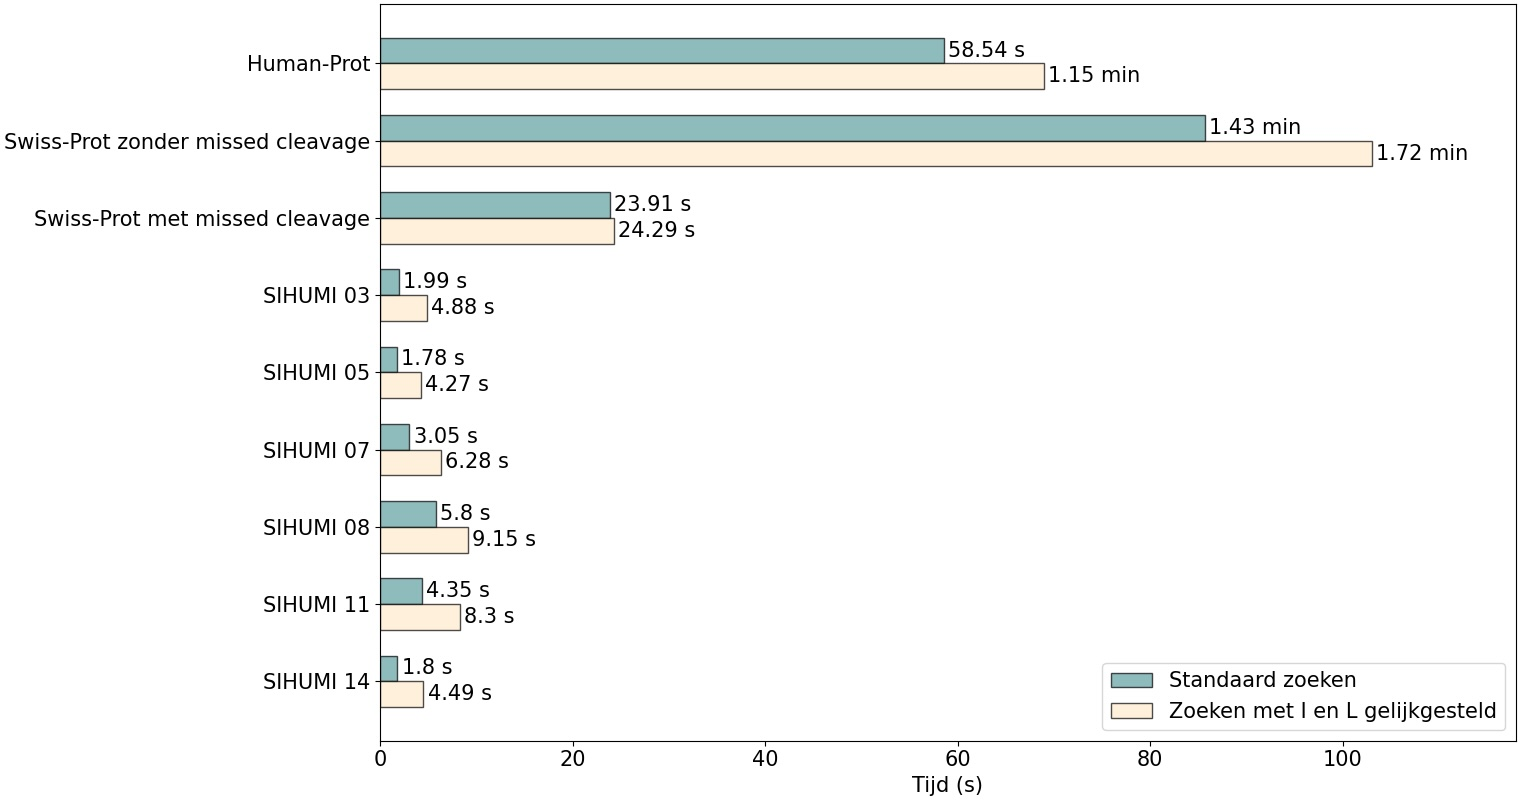
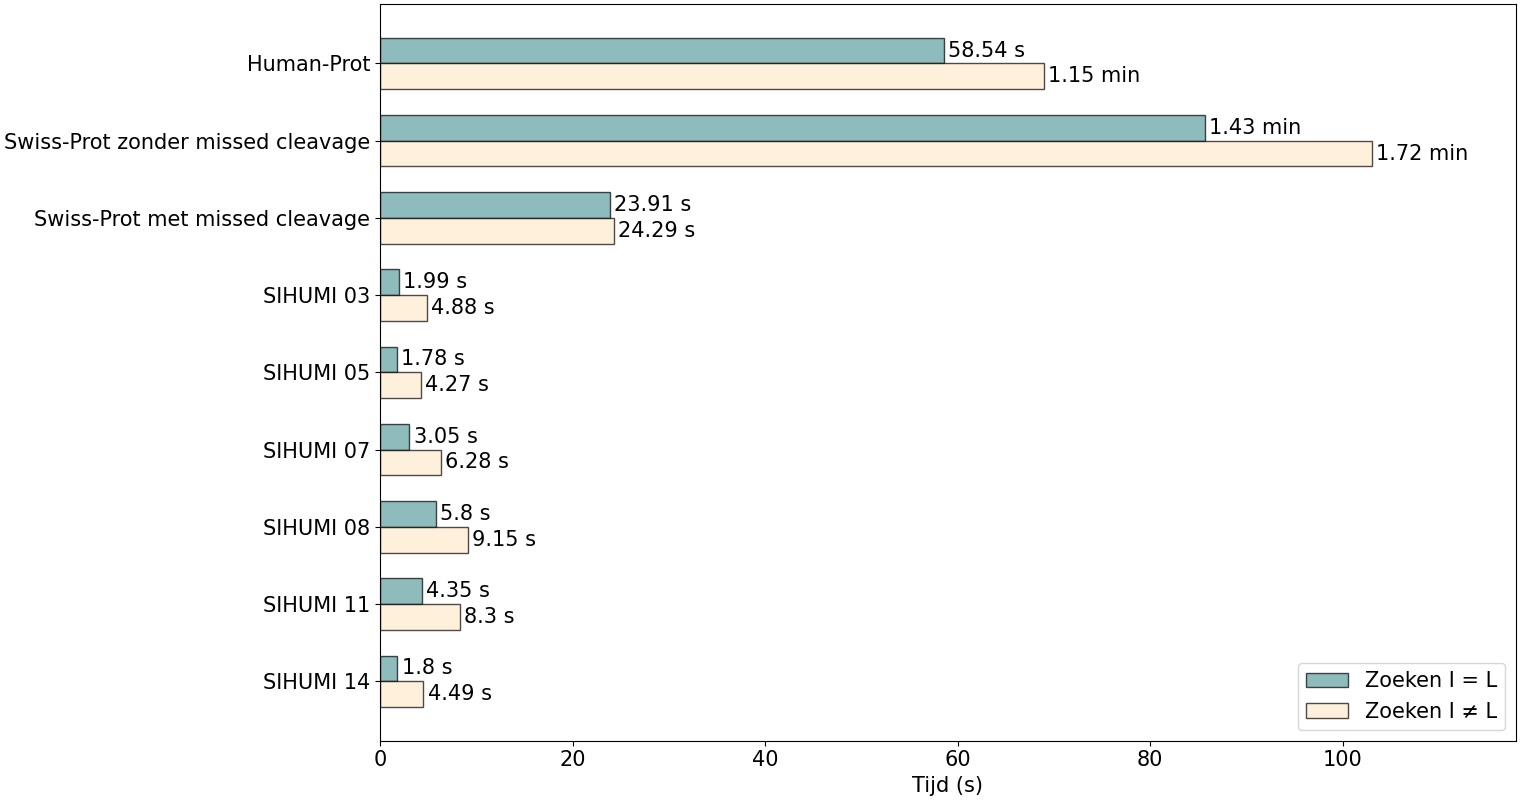
voeg meer info toe in het uniprot hoofdstuk

Changed region(s): [[0.7112, 0.8125, 0.9895, 0.9062]]

diff --git a/src/uniprot.tex b/src/uniprot.tex
@@ -104,64 +104,206 @@ In deze figuur zien we bovendien dat de zoeksnelheid waarbij I niet gelijk wordt
 \begin{figure}[ht]
     \centering
     \includegraphics[width=0.95\linewidth]{uniprot_searchtime_standard_vs_il_equality}
-    \caption{Zoektijd in UniProtKB (Swiss-Prot + TrEMBL) met en zonder het gelijkstellen van I en L met een SA met sparseness factor $k = 3$.}
+    \caption{Zoektijd in UniProtKB (Swiss-Prot + TrEMBL) met en zonder het gelijkstellen van I en L met een SA met sparseness factor $k = 3$. De index zelf is opgebouwd op basis van een tekst waar I $\neq$ L.}
     \label{fig:uniprot_search}
 \end{figure}
 
 \subsection{Index waarbij I = L}
-% TODO
+Naast het opbouwen van de normale index, en daarin het zoekproces te proberen aanpassen om gevallen te vinden waarbij I en L omgewisseld worden, kunnen we ook het omgekeerde proberen doen.
+Hierbij wordt in de originele tekst elke L vervangen door een I, of omgekeerd, om op deze aangepaste tekst een index te bouwen.
+Wanneer we in de gezochte peptides hetzelfde doen, vinden we alle matches, waarbij een I en L gelijkgesteld zijn.
+Dit is duidelijk erg simpel, en bovendien efficiënt.
+Door het zoekproces licht aan te passen, kunnen we bovendien zoeken door de suffix array die opgebouwd is via de aangepaste tekst, maar wel de originele tekst gebruiken.
+We moeten er enkel voor zorgen dat we overal waar een L staat, de gelijkenis uitvoeren alsof het een I was.
+\\ \\
+In het geheugen van het programma zitten nu volgende onderdelen:
+\begin{itemize}
+    \item De originele tekst.
+    \item Een SA opgebouwd op de aangepaste tekst, waarbij I = L\@.
+    \item Een peptide die we willen zoeken.
+\end{itemize}
+Wanneer we alle matches willen vinden waarbij I $\neq$ L, kunnen we volgend stappenplan gebruiken.
+\begin{enumerate}
+    \item Zoek alle matches in de SA, waarbij I = L\@.
+    Hiervoor moeten we in de peptide alle L'en vervangen door een I\@.
+    \item Filter de ongeldige matches weg.
+    Dit kunnen we doen door voor alle matches te controleren op elke positie waar een I of L is, als daar hetzelfde teken staat als in de tekst.
+    Wanneer in de peptide een L staat, en de tekst een I (of omgekeerd), wil dit zeggen dat deze match ongeldig is, want ze is enkel gevonden vanwege het gelijkstellen van I aan L tijdens het zoeken.
+    Andere tekens in de peptide moeten nooit gecontroleerd worden, aangezien het zoeken in de SA ons al garandeert dat deze overeenkomen.
+\end{enumerate}
+
+Dit stappenplan is niet alleen simpel, maar het bevat ook geen extreem slechte gevallen zoals bij de index waarbij we I $\neq$ L stellen, en dan alle opties proberen verkennen.
+Naast deze voordelen blijkt ook dat deze manier van zoeken iets sneller is in het algemeen.
+Dit valt te zien in Figuur~\ref{fig:uniprot_search_il_equal}.
+Een laatste voordeel is dat het gelijkstellen van I en L de standaard optie is in de huidige Unipept UI\@.
+Dit is net ook wat hier het minste werk vereist tijdens het zoeken.
+
+\begin{figure}[ht]
+    \centering
+    \includegraphics[width=0.95\linewidth]{uniprot_searchtime_standard_vs_il_equality_il_equal_index}
+    \caption{Zoektijd in UniProtKB (Swiss-Prot + TrEMBL) met en zonder het gelijkstellen van I en L met een SA met sparseness factor $k = 3$. De index zelf is opgebouwd op basis van een tekst waar I = L.}
+    \label{fig:uniprot_search_il_equal}
+\end{figure}
+
+Eén iets merkwaardig is dat voor onze kleinere SIHUMI testbestanden het zoeken met I $\neq$ L sneller is, ook al is dit net minder werk.
+Dit komt omdat zonder dit filteren er meer resultaten zijn.
+Deze extra resultaten moeten allemaal meegenomen worden in het berekenen van de LCA*, maar ook tijdens het serializeren van de resultaten naar een JSON bestand.
+Bij de grotere testbestanden levert het filteren in verhouding meer winst op, waardoor daar wel de verwachte tijdswinst zichtbaar is.
 
 \section{Vergelijking met andere tools}\label{subsec:vergelijking-met-andere-tools}
-Aangezien we er in geslaagd zijn om UniProtKB volledig te indexeren is het nuttig om de performantie te vergelijken met bestaande tools.
+Aangezien we erin geslaagd zijn om UniProtKB volledig te indexeren, is het nuttig om de performantie te vergelijken met bestaande tools.
 De tools die we bekijken zijn de \textbf{Uniprot Peptide search tool}, de \textbf{Expasy ScanProsite tool} en \textbf{Unipept} (met de bestaande indexstructuur).
-Vanwege de performantie zullen we ons beperken tot het opzoeken van één willekeurige peptide \texttt{ISPAVLFVIVILAVLFFISGLLHLLVR}.
-Als referentie gebruiken we de zoektijd in de nieuwe indexstructuur gebruikmakende van een suffix array met sparseness factor 3.
-Hierin duurt het zoeken van de peptide \textbf{0.01 seconden} en levert 50 matches op.
-Wanneer we I en L gelijkstellen duurt dit opnieuw 0.01 seconden, maar levert dit wel 52 matches op.
+Vanwege de beperkte performantie zullen we ons beperken tot het opzoeken van één willekeurige peptide \texttt{ISPAVLFVIVILAVLFFISGLLHLLVR}.
+Als referentie gebruiken we de zoektijd in de nieuwe indexstructuur gebruikmakende van een suffix array met sparseness factor $k = 3$.
+Hierin duurt het zoeken van de peptide \textbf{$\pm$ 3 milliseconden} en levert 50 matches op.
+Wanneer we I en L gelijkstellen duurt dit opnieuw ongeveer 3 milliseconden, maar levert dit wel 52 matches op.
 Hierbij wordt natuurlijk geen extra tijd geïntroduceerd door een API call over het internet aangezien deze index (nog) niet publiek beschikbaar is.
 
 \subsection{UniProt peptide search tool}
-De UniProt peptide search tool\cite{uniprot_search_paper, uniprot_search_site} is een onderdeel van de UniProt site en laat toe om alle voorkomens van een bepaald eiwit te vinden in de volledige UniProtKB database.
-Als opties kunnen we kiezen om enkel in Swiss-Prot te zoeken, of in Swiss-Prot en TrEMBL.
-Voor beide datasets kunnen we kiezen of we I en L aan elkaar willen gelijkstellen.
+De UniProt peptide search tool~\cite{uniprot_search_paper, uniprot_search_site} is een onderdeel van de UniProt site en laat toe om alle voorkomens van een bepaald eiwit te vinden in de volledige UniProtKB databank.
+Als opties kunnen we kiezen om enkel in Swiss-Prot te zoeken, of in Swiss-Prot en TrEMB L\@.
+Voor beide databanken kunnen we kiezen of we I en L aan elkaar willen gelijkstellen.
 Deze features komen exact overeen met de eigenschappen van onze nieuwe indexstructuur.
 Qua performantie is deze tool echter extreem onstabiel.
-Zo duurt het zoeken van \texttt{ISPAVLFVIVILAVLFFISGLLHLLVR} in de volledige UniProtKB database \textbf{enkele seconden tot zelfs 20 minuten}.
+Zo duurt het zoeken van \texttt{ISPAVLFVIVILAVLFFISGLLHLLVR} in de volledige UniProtKB databank \textbf{enkele seconden tot zelfs 20 minuten}.
 Bovendien vermoeden we ook dat er een vorm van caching toegepast wordt aangezien het zoeken voor een tweede keer zo goed als onmiddellijk het resultaat geeft.
 Dit maakt het benchmarken extreem moeilijk.
 Zoals verwacht zijn de gevonden matches identiek aan de matches die onze nieuwe indexstructuur vindt.
-Naast de variabele performantie faalt deze tool ook regelmatig tijdens het berekenen en ophalen van de resultaten.
+Naast de variabele performantie faalt deze tool ook regelmatig tijdens het zoeken en ophalen van de resultaten.
 
 \subsection{Expasy ScanProsite tool}
-De Expasy ScanProsite tool\cite{scanprosite} laat toe om aan de hand van een taaltje die lijkt op reguliere expressies allerlei patronen te zoeken.
-Hun eigen taal laat toe om onder andere wildcards, karakterklasses, inverse klasses en herhalingen te specificeren.
+De Expasy ScanProsite tool~\cite{scanprosite} laat toe om aan de hand van motieven die lijken op reguliere expressies allerlei patronen te zoeken.
+De beschrijving van motieven laat toe om onder andere wildcards, karakterklassen, inverse klassen en herhalingen te specificeren.
 De flexibiliteit van dit systeem is dus een sterk voordeel.
 Een nadeel van deze tool is dat niet de volledige UniProtKB databank doorzocht wordt.
 Er wordt enkel rekening gehouden met proteïnes die deel uit maken van een reference proteome\footnote{Deze zogenaamde reference proteomes zijn een collectie van eiwitten die door een bepaald organisme gemaakt kunnen worden, en die bovendien taxonomisch belangrijk bevonden worden. Deze laatste voorwaarde wil dus zeggen dat dit niet zomaar van elk organisme is, enkel van een selecte groep organismes die op basis van verschillende factoren belangrijk bevonden wordt. Een voorbeeld hiervan is de \textit{human reference proteome}. Dit zijn alle eiwitten die door een mens aangemaakt kunnen worden.}.
 Dit komt er op neer dat ze bij UniProt 2024\_01 \textbf{slechts rekening houden met 85\thinspace152\thinspace388 van de 249\thinspace751\thinspace891 proteïnes}.
-Wanneer we de zoekperformantie hier testen duurt het zoeken van de ene peptide zo'n \textbf{5.5 minuten} zonder gelijkstellen van I en L en 15 minuten met het gelijkstellen van I en L\@.
-Hierbij zijn er slechts 30 resp. 32 matches gevonden, wegens de subset van proteïnes die gebruikt wordt.
+Wanneer we de zoekperformantie testen, duurt het zoeken van de ene peptide zo'n \textbf{5.5 minuten} zonder gelijkstellen van I en L en 15 minuten met het gelijkstellen van I en L\@.
+Hierbij zijn er slechts 30 resp. 32 matches gevonden, wegens de deelverzameling van proteïnes die gebruikt wordt.
 
 \subsection{Huidige Unipept index}
 De bestaande Unipept index laat toe om, \textbf{op voorwaarde dat je peptide tryptisch is}, alle matches te vinden met de keuze om I en L gelijk te stellen.
-De peptide die we hier gebruiken is dit ook net, dus zou deze index hiervoor dezelfde matches moeten vinden.
-Dit is inderdaad het geval, en gebeurt bovendien gebruikmakende van een API call in \textbf{0.1 seconden}, wat duidelijk extreem veel sneller is dan de andere bestaande opties.
+De peptide die we hier gebruiken is tryptisch, dus zou deze index hiervoor dezelfde matches moeten vinden.
+Dit is inderdaad het geval, en gebeurt bovendien gebruikmakende van een API call in \textbf{$\pm$ 4 milliseconden}, wat duidelijk extreem veel sneller is dan de andere bestaande opties.
 Opnieuw is de zoektijd hier al zo klein dat de invloed van het gelijkstellen van I en L niet te meten valt.
-Dat dit enkel werkt voor tryptische peptiden is een extreem grote beperking, volgend voorbeeld illustreert dit.
+Dat dit enkel werkt voor tryptische peptiden is een extreem grote beperking.
+Volgend voorbeeld illustreert dit.
 Stel dat we nu de peptide \texttt{ILAKLFIS} zoeken.
 Dit is geen tryptische peptide en bijgevolg kunnen er geen matches gevonden worden.
-De nieuwe indexstructuur vindt echter 14 matches zonder I en L gelijk te stellen, en 207 matches bij het gelijkstellen van I en L.
+De nieuwe indexstructuur vindt echter 14 matches zonder I en L gelijk te stellen, en 207 matches bij het gelijkstellen van I en L\@.
+
+\section{Taxonomische analyse}\label{sec:taxonomische-analyse}
+Door het gebruik van suffix arrays moet de taxonomische analyse volledig uitgevoerd worden tijdens het zoekproces zelf.
+Dit heeft zowel voor- als nadelen.
+\\ \\
+Het grootste nadeel is de extra overhead per zoekopdracht.
+In de oude index was het enkel nodig alle matches te zoeken, waarna de voorberekende LCA onmiddellijk opgehaald kon worden.
+Nu moeten we deze LCA ook nog berekenen.
+Indien we dit zouden willen oplossen is er nood aan een manier om de boomstructuur te reconstrueren op een geheugenefficiënte manier.
+Hiervoor zijn de extra tabellen van Enhanced Suffix Arrays nodig.
+\\ \\
+Anderzijds zijn er ook enkele voordelen verbonden met het berekenen tijdens het zoekproces zelf.
+Zo hebben we minder geheugen nodig, wat erg belangrijk is aangezien het geheugengebruik al erg hoog is tijdens het opbouwen van de suffix array.
+Bovendien laat dit ook toe dat we vrij kunnen kiezen welke aggregatiemethode we gebruiken.
+De oude Unipept index maakte gebruik van een (minder interessante) variant van LCA*.
+De enige reden hiervoor was omdat het voorberekenen anders niet efficiënt kon gebeuren.
+Bij suffixbomen hebben we zelf gebruik moeten maken van de standaard LCA methode om dit op te lossen.
+Hier kunnen we vrij gebruik maken van LCA*, en blijft de performantie bovendien
+Een laatste, belangrijk, voordeel is dat er geen extra werk nodig is om de taxon IDs van alle matches op te halen.
+In de huidige Unipept index is hier een significante hoeveelheid extra werk voor nodig, wat resulteert als een bottleneck bij de \textit{peptonizer 2000} tool~\cite{pep_gm}.
 
 
-\section{Functionele analyse}
-% TODO
+\section{Functionele analyse}\label{sec:functionele-analyse}
+Naast de taxonomische analyse ondersteunt Unipept ook een functionele analyse.
+Deze analyse wordt uitgevoerd door de verschillende GO, EC en INTERPRO termen die horen bij de gevonden matches te tellen.
+Elk van deze termen is een korte string van 5 à 10 karakter lang, en kan vrij eenvoudig mee ingelezen worden en per proteïne bijgehouden worden.
+Al deze annotaties samen, maken het databankbestand dat ingelezen wordt om de index mee op te bouwen ongeveer 24 GB groter.
+Wanneer we deze informatie allemaal ingeladen hadden, bleek het programma echter ongeveer 105 GB extra RAM te gebruiken.
+De verklaring hiervoor is dat Rust 24 bytes overhead heeft per vector, en 24 bytes overhead per string.
+Om deze annotaties bij te houden, hadden we net één vector per proteïne nodig, en die vector bevatte een reeks aan korte strings (de annotaties zelf).
+Om dit op te lossen heeft Tibo Vande Moortele een simpele compressiebibliotheek\footnote{\url{https://github.com/unipept/unipept-index/tree/main/fa-compression}} ontwikkeld voor deze annotaties.
+Hierbij worden 2 karakters uit een annotatie gecomprimeerd naar 1 byte, en kunnen bovendien enkele tekens weggelaten worden.
+Na het gebruik van deze bibliotheek resulteert de geheugenoverhead hiervoor zich naar 11 GB, wat in de context van de al 320 GB grote index (wanneer de tekst ook meegerekend wordt) bijna verwaarloosbaar is.
 
 \section{Aanbieden van de nieuwe indexstructuur}\label{sec:aanbieden-van-de-nieuwe-indexstructuur}
 Alle eerder vermelde benchmarks tonen enkel de zoektijd.
-Bij het opstarten moeten we echter \textbf{eerst de indexstructuur inladen}.
+Bij het opstarten moeten we echter \textbf{eerst de indexstructuur inladen in RAM}.
 Dit alleen duurt 20 tot 25 minuten.
-We willen dit inladen slechts eenmalig doen om dan alle requests onmiddellijk af te kunnen afhandelen.
-Dit doen we aan de hand van een simpele webserver aan de hand van de Axum crate\cite{axum}.
+We willen dit inladen slechts eenmalig doen om dan alle requests onmiddellijk te kunnen afhandelen.
+Dit doen we aan de hand van een simpele webserver met de Axum crate~\cite{axum}.
 Deze webserver laadt bij het opstarten de indexstructuur in en blijft daarna wachten op HTTP requests die een JSON bevatten met daarin de peptiden die we willen zoeken.
 Op deze manier is dit probleem elegant opgelost, en kunnen we bovendien aan de hand van JSON bestanden erg makkelijk de input verwerken, en de resultaten terugsturen.
+Figuur~\ref{fig:webserver_json_input} en~\ref{fig:webserver_json_output} geven een voorbeeld input en output.
+
+\begin{figure}[h!]
+    \begin{minted}[frame=lines,framesep=2mm,linenos]{JSON}
+{
+  "peptides": [
+    "ILAKLFISA",
+    "ACCISDJLSDAAC"
+  ],
+  "equalize_I_and_L": true,
+  "clean_taxa": true,
+  "cutoff": 10000
+}
+    \end{minted}
+    \caption{Voorbeeld JSON input voor de webserver waarbij de peptiden \texttt{ILAKLFISA} en \texttt{ACCISDJLSDAAC} gezocht worden.
+    Tijdens het zoeken worden I en L gelijkgesteld, en wordt de drempelwaarde B=10\thinspace000 gebruikt.
+    Het \texttt{clean\_taxa} argument duidt er op aan dat we enkel eiwitten willen matchen die ook een meerwaarde hebben tijdens de aggregatie fase.
+    Eerder in de Unipept pipeline wordt beslist welke taxa allemaal nuttig zijn.
+    De laatste twee argumenten zouden ook weggelaten kunnen worden aangezien de standaardwaardes hier gebruikt worden.}
+    \label{fig:webserver_json_input}
+\end{figure}
+
+\begin{figure}[h!]
+    \begin{minted}[frame=lines,framesep=2mm,linenos]{JSON}
+{
+  "result": [
+    {
+      "sequence": "ILAKLFISA",
+      "lca": 4751,
+      "taxa": [
+        133377,
+        61424,
+        40658
+      ],
+      "uniprot_accessions": [
+        "A0A2U1J424",
+        "A0A2T9Z5P9",
+        "A0A8K0TPG0"
+      ],
+      "fa": {
+        "counts": {
+          "GO": 1,
+          "EC": 0,
+          "IPR": 3,
+          "all": 3
+        },
+        "data": {
+          "IPR:IPR012419": 1,
+          "IPR:IPR002110": 2,
+          "GO:0005794": 1,
+          "IPR:IPR036770": 2,
+          "GO:0016020": 1,
+          "GO:0016740": 1,
+          "GO:0005975": 1
+        }
+      },
+      "cutoff_used": false
+    }
+  ]
+}
+    \end{minted}
+    \caption{Output van de input gebruikt in Figuur~\ref{fig:webserver_json_input}.
+    Hierbij bevat de sleutel \texttt{result} één element voor elke peptide die minstens één match opleverde.
+    Peptides zonder match worden dus simpelweg weg gelaten in de output.
+    Dit element bevat de berekende LCA voor alle matches, de taxa die overeenkomt met elke match en het UniProt accession number voor elke match.
+    Verder bevat de sleutel \texttt{fa} de functionele analyse zoals deze op dit moment door de Unipept API al teruggegeven wordt.
+    Tot slot is er ook nog een extra sleutel \texttt{cutoff\_used} die aanduid als de gebruikte bovengrens voor het berekenen van de lca gebruikt is.
+    In dit geval stond deze bovengrens B op 10\thinspace000 matches.
+    Indien deze wel gebruikt is zal de lca automatisch op 1 gezet worden en zullen er exact B matches teruggegeven worden.
+    De extra matches boven B worden dus niet verder teruggegeven.}
+    \label{fig:webserver_json_output}
+\end{figure}
+
 
